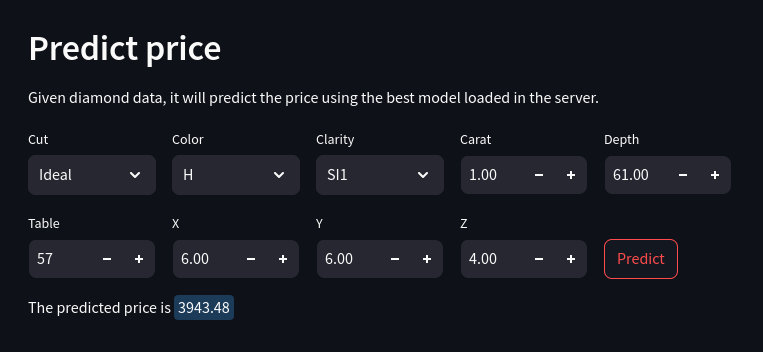
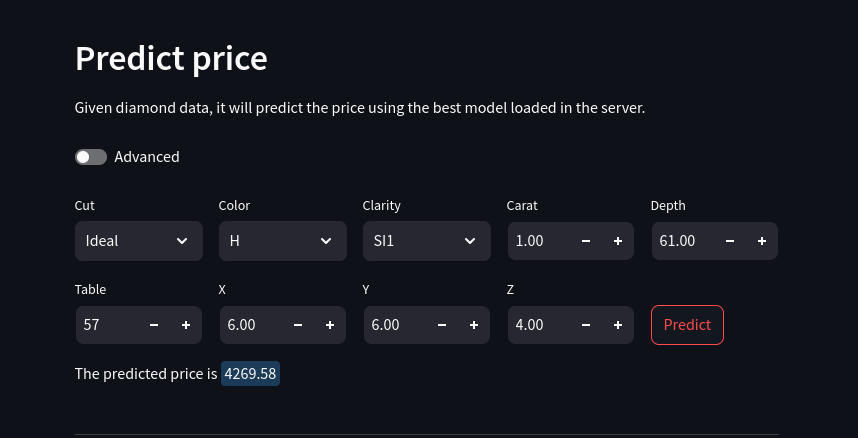
Readme + structure update

diff --git a/assignment/server/database.py b/assignment/server/database.py
@@ -1,0 +1,69 @@
+import logging
+import os
+import sys
+from typing import Any
+from dotenv import load_dotenv
+import pymongo
+from pymongo.errors import ServerSelectionTimeoutError
+from fastapi import Request
+import datetime
+
+# Create and initialize logger
+logger = logging.getLogger(__name__)
+
+load_dotenv()
+DB_URL = os.getenv("DB_URL")
+DB_NAME = os.getenv("DB_NAME")
+DB_COLLECTION = os.getenv("DB_COLLECTION")
+
+
+def db_check():
+    try:
+        with pymongo.MongoClient(DB_URL, connectTimeoutMS=10000) as client:
+            db = client[DB_NAME]
+            db_list = client.list_database_names()
+
+            if DB_NAME in db_list:
+                logger.info("Database %s found.", DB_NAME)
+            else:
+                logger.info(
+                    "Database %s not found. Will create a new one.",
+                    DB_NAME
+                )
+
+            col_list = db.list_collection_names()
+
+            if DB_COLLECTION in col_list:
+                logger.info("Collection %s found.", DB_COLLECTION)
+            else:
+                logger.info(
+                    "Collection %s not found. Will create a new one.",
+                    DB_COLLECTION
+                )
+
+    except ServerSelectionTimeoutError:
+        logger.error(
+            "Cannot establish connection with database. "
+            "A MongoDB instance is required for the server to run."
+        )
+        sys.exit(1)
+
+
+def store_request(
+    request: Request,
+    response: Any,
+):
+    date_time = datetime.datetime.now(tz=datetime.timezone.utc)
+
+    document = {
+        "method": request.method,
+        "url": str(request.url),
+        "query_parameters": dict(request.query_params),
+        "response": response,
+        "datetime": date_time,
+    }
+
+    with pymongo.MongoClient(DB_URL) as client:
+        collection = client[DB_NAME][DB_COLLECTION]
+        doc_id = collection.insert_one(document)
+        logger.info("Inserted API request in database: %s", doc_id)

diff --git a/server.py b/server.py
@@ -1,12 +1,13 @@
-import argparse
 import logging
-import os
-from dotenv import load_dotenv
 
-from fastapi import FastAPI, Request
 import uvicorn
-from assignment.database.database import db_check, store_request
-from assignment.server_logic import make_prediction, similar_diamond_request
+from fastapi import FastAPI, Request
+
+from assignment.server.database import db_check, store_request
+from assignment.server.server_logic import (
+    make_prediction,
+    similar_diamond_request,
+)
 
 # Create and initialize logger
 logger = logging.getLogger(__name__)
@@ -77,33 +78,10 @@ def predict(
     return prediction
 
 
-if __name__ == "__main__":
-    parser = argparse.ArgumentParser()
-    parser.add_argument(
-        "-m",
-        "--model",
-        type=str,
-        choices=["linear", "xgboost", "best"],
-        nargs='?',
-        default="best",
-        help="specify which type of model to use, or to just pick the best one"
-    )
-
-    parser.add_argument(
-        "-c",
-        "--criteria",
-        type=str,
-        choices=["MAE", "r2"],
-        nargs='?',
-        default="MAE",
-        help="which criteria to use to pick the best model"
-    )
-
-    # Loading variables from .env file
-    load_dotenv()
-    DATASET_PATH = os.getenv("DATASET_PATH")
-    MODEL_DIR_PATH = os.getenv("MODEL_DIR_PATH")
-
+def main():
     db_check()
-
     uvicorn.run(app)
+
+
+if __name__ == "__main__":
+    main()

diff --git a/assignment/training_pipeline.py b/assignment/training_pipeline.py
@@ -19,14 +19,9 @@ from assignment.preprocessing.train_preprocess import (
 
 # Create and initialize logger
 logger = logging.getLogger(__name__)
-logging.basicConfig(
-    encoding='utf-8',
-    format="%(name)s %(levelname)s: %(message)s",
-    level=logging.INFO
-)
 
 
-def train_ev_model(
+def train_evaluate_model(
     train_dataset: tuple[Any, Any],
     test_dataset: tuple[Any, Any],
     model_class: Any,
@@ -151,7 +146,7 @@ def pipeline(
         train_dataset, test_dataset = preprocess_diamond_linear_reg(
             diamond_df,  test_split, seed)
         logger.info("Training %s model...", model)
-        train_ev_model(
+        train_evaluate_model(
             train_dataset,
             test_dataset,
             LinearRegression,
@@ -180,7 +175,7 @@ def pipeline(
             )
 
         logger.info("Training %s model...", model)
-        train_ev_model(
+        train_evaluate_model(
             train_dataset,
             test_dataset,
             xgboost.XGBRegressor,

diff --git a/README.md b/README.md
@@ -71,12 +71,14 @@ Observability is key. Save every request and response made to the APIs to a **pr
 
 I have completed all four challenges. Here is a guide on how to use all the components.
 
-### Environment
+### Preliminary setup
 
-To run basically anything, an environment with the correct dependencies is needed. I have used `conda`. For this reason, you will need conda installed in your system. The procedure is different depending on your OS/distro. To create the appropriate environment, there is a `env.yml` file in the `assignment` folder. To create the environment, run the command:
+#### Environment
+
+To run basically anything, an environment with the correct dependencies is needed. I have used `conda`. For this reason, you will need conda installed in your system. The procedure is different depending on your OS/distro. To create the appropriate environment, there is a `conda_env.yml` file which will create the appropriate environment. To create the environment, run the command:
 
 ```bash
-conda env create -f assignment/env.yml
+conda env create -f conda_env.yml
 ```
 
 To enter the virtual environment (after restarting the shell or sourcing the shell config file), just use the command:
@@ -85,24 +87,29 @@ To enter the virtual environment (after restarting the shell or sourcing the she
 conda activate diamond-env
 ```
 
-To exit the environment after you are finished with the project:
+Additionally, all the important constants in the project are saved in the `.env` file. The file contains:
 
-```bash
-conda deactivate
+```
+DATASET_PATH = "https://raw.githubusercontent.com/xtreamsrl/xtream-ai-assignment-engineer/main/datasets/diamonds/diamonds.csv"
+MODEL_DIR_PATH = "models"
+API_SERVER_URL = "127.0.0.1:8000"
+DB_URL = "mongodb://localhost:27017/"
+DB_NAME = "diamond_db"
+DB_COLLECTION = "api_requests"
 ```
 
 All the following script assume that you are running them in the virtual environment.
 
-### Database
+#### Database
 
 The API server requires a MongoDB database where it will store all the API requests. To install MongoDB, you can follow the instructions for your OS on the official MongoDB [installation page](https://www.mongodb.com/docs/manual/installation/).
 
 ### Training pipeline
 
-The training pipeline can be executed by launching the script `training_pipeline.py`. From the main directory of the repo:
+The training pipeline can be executed by launching the script `run_pipeline.py`. From the main directory of the repo:
 
 ```bash
-python assignment/training_pipeline.py
+python run_pipeline.py
 ```
 
 Running the script without flags will result in training a linear model using a dataset from the default location. This behaviour can be changed using flags and arguments.
@@ -111,26 +118,13 @@ All the possible options can be seen with:
 ```bash
 python assignment/training_pipeline.py -h
 ```
-```
-usage: training_pipeline.py [-h] [-m [{linear,xgboost}]] [-t] [-s [SEED]] [-d [DATASET]] [--tuning-trials [TUNING_TRIALS]] [--save-dir [SAVE_DIR]] [--test-split [TEST_SPLIT]]
 
-options:
-  -h, --help            show this help message and exit
-  -m [{linear,xgboost}], --model [{linear,xgboost}]
-                        specify which model to train and save
-  -t, --tuning          perform hyperparameter tuning, works only with xgboost
-  -s [SEED], --seed [SEED]
-                        random seed
-  -d [DATASET], --dataset [DATASET]
-                        the dataset path/url
-  --tuning-trials [TUNING_TRIALS]
-                        how many hyperparameter tuning trials to perform
-  --save-dir [SAVE_DIR]
-                        specify different directory for models and reports
-  --test-split [TEST_SPLIT]
-                        the test/training split ratio
-
-```
+- `-h, --help`: shows the help message
+- `-m --model`: specify which model to train among `linear` and `xgboost`, default is `linear`
+- `-t, --tuning`: flag used to specify whether the pipeline should include hyperparameter tuning (for XGBoost)
+- `-s, --seed`: specificy the random seed, default is `42`
+- `--tuning-trials`: how many hyperparameter tuning trials to perform, default is `100`
+- `test-split`: what ratio of training data to reserve for the test set, default is `0.2`
 
 So, for example, if you want to train an `xgboost` model with hyperparameter tuning, you can do:
 
@@ -144,7 +138,7 @@ Or, for short:
 python assignment/training_pipeline.py -m xgboost -t
 ```
 
-If using the default paths, after training, the script will save a report of the model performance in `assignment/models/report.csv` and a *pickle* file of the model itself in `assignment/models/model_files`.
+If using the default paths specified in `.env`, after training, the script will save a report of the model performance in `models/report.csv` and a *pickle* file of the model itself in `models/model_files`.
 
 ### API server
 
@@ -157,51 +151,19 @@ mongod
 Then, to start the server, execute the script `server.py`:
 
 ```bash
-python assignment/server.py
+python server.py
 ```
 
-This command will start a uvicorn FastAPI server. The server will listen for API requests. On startup the server will check for the database connection and it will load the best trained model according to `assignment/models/report.csv` using the MAE metric. Again, if you want to change the behaviour of the scripts, there are several arguments. By running:
-
-```bash
-python assignment/server.py -h
-```
-
-You get:
-
-```
-usage: server.py [-h] [-m [{linear,xgboost,best}]] [-c [{MAE,r2}]] [-d [DATASET]] [--save-dir [SAVE_DIR]] [--db-url [DB_URL]]
-                 [--db-name [DB_NAME]] [--collection-name [COLLECTION_NAME]]
-
-options:
-  -h, --help            show this help message and exit
-  -m [{linear,xgboost,best}], --model [{linear,xgboost,best}]
-                        specify which type of model to use, or to just pick the best one
-  -c [{MAE,r2}], --criteria [{MAE,r2}]
-                        which criteria to use to pick the best model
-  -d [DATASET], --dataset [DATASET]
-                        the dataset path/url
-  --save-dir [SAVE_DIR]
-                        specify different directory where report and model are saved
-  --db-url [DB_URL]     the mongodb database url
-  --db-name [DB_NAME]   the mongodb database name
-  --collection-name [COLLECTION_NAME]
-                        the mongodb collection name
-```
-
-So, for example, you want to run the server using the best linear model according to the R2 metric, you can type:
-
-```bash
-python assignment/server.py -m linear -c r2
-```
+This command will start a uvicorn FastAPI server. The server will listen for API requests. On startup the server will check for the database connection.
 
 Once the server is running, you can make API requests to it. The two possible requests are `prediction` and `n-similar`.
 
 #### `/prediction`
 Given a diamond (all variables except price), predict its price.
 
-Method: `GET`
+Method: `POST`
 
-Arguments:
+Parameters:
 
 - `carat: float`
 - `cut: str`
@@ -212,21 +174,26 @@ Arguments:
 - `x: float`
 - `y: float`
 - `z: float`
+- `model: str`: which type of model to use for the prediction among `linear`, `xgboost` or `best`. Deafult is `best`.
+- `criteria: str`: which criteria to use to select the model among `mae` and `r2`. Default is `mae`.
 
 Return:
 - `prediction: float`
 
+NOTE: to keep it as developer friendly as possible, `model` and `criteria` have default values and can be omitted.
+
 Example:
+
 ```
 curl -X GET -H "Content-Type: application/json" "http://127.0.0.1:8000/prediction?carat=0.7&cut=Ideal&color=H&clarity=SI1&depth=61.0&table=56&x=5.74&y=5.76&z=3.51"
 ```
 
-#### `/n-similar`
+#### `/similar`
 Given cut, color, clarity and carat, return the *n* most similar diamonds according to weight.
 
-Method: `GET`
+Method: `POST`
 
-Arguments:
+Parameters:
 
 - `cut: str`
 - `color: str`
@@ -239,7 +206,7 @@ Return:
 
 Example:
 ```
-curl -X GET -H "Content-Type: application/json" "http://127.0.0.1:8000/n-similar?cut=Ideal&color=H&clarity=SI1&carat=0.7&n=20"
+curl -X POST -H "Content-Type: application/json" "http://127.0.0.1:8000/n-similar?cut=Ideal&color=H&clarity=SI1&carat=0.7&n=20"
 ```
 
 All requests are saved to the database. Specifically, after a request is performed, a document is saved with the following fields:
@@ -255,7 +222,7 @@ All requests are saved to the database. Specifically, after a request is perform
 Instead of using the terminal, the API requests can be also made using a dedicated WebUI. To start the WebUI, use the following command which will start a *streamlit* WebUI on `http://localhost:8501`:
 
 ```bash
-streamlit run assignment/webui.py
+streamlit run webui.py
 ```
 
 ![alt text](images/webui.png)
@@ -265,6 +232,10 @@ streamlit run assignment/webui.py
 After inserting the arguments (which can be easily selcted from the dropdown menus for non-numeric ones), pressing the button *Predict* will display a prediction made by the model currently loaded in the server.
 
 ![alt text](images/predict.png)
+
+More advanced technical options like the model type and the criteria to choose the best model are hidden behind the `advanced` toggle, to avoid confusion for those who are less technical.
+
+![alt text](images/predict_adv.png)
 
 #### Finding similar diamonds
 
